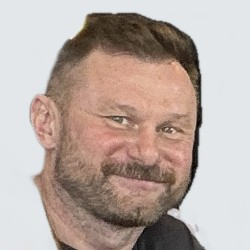
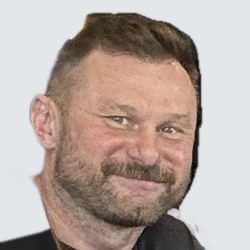
O nás: fotka Petra Lukeše – dokreslené levé rameno v barvě trička

Changed region(s): [[0.0, 0.896, 0.252, 1.0]]

diff --git a/index.html b/index.html
@@ -546,7 +546,7 @@
 
         <ul class="team">
           <li class="team__member">
-            <img class="team__avatar" src="img/tym-petr-lukes.jpg?v=3" width="250" height="250" loading="lazy" alt="">
+            <img class="team__avatar" src="img/tym-petr-lukes.jpg?v=4" width="250" height="250" loading="lazy" alt="">
             <div><strong>Petr Lukeš</strong><span>vedoucí laboratoře</span></div>
           </li>
           <li class="team__member">
